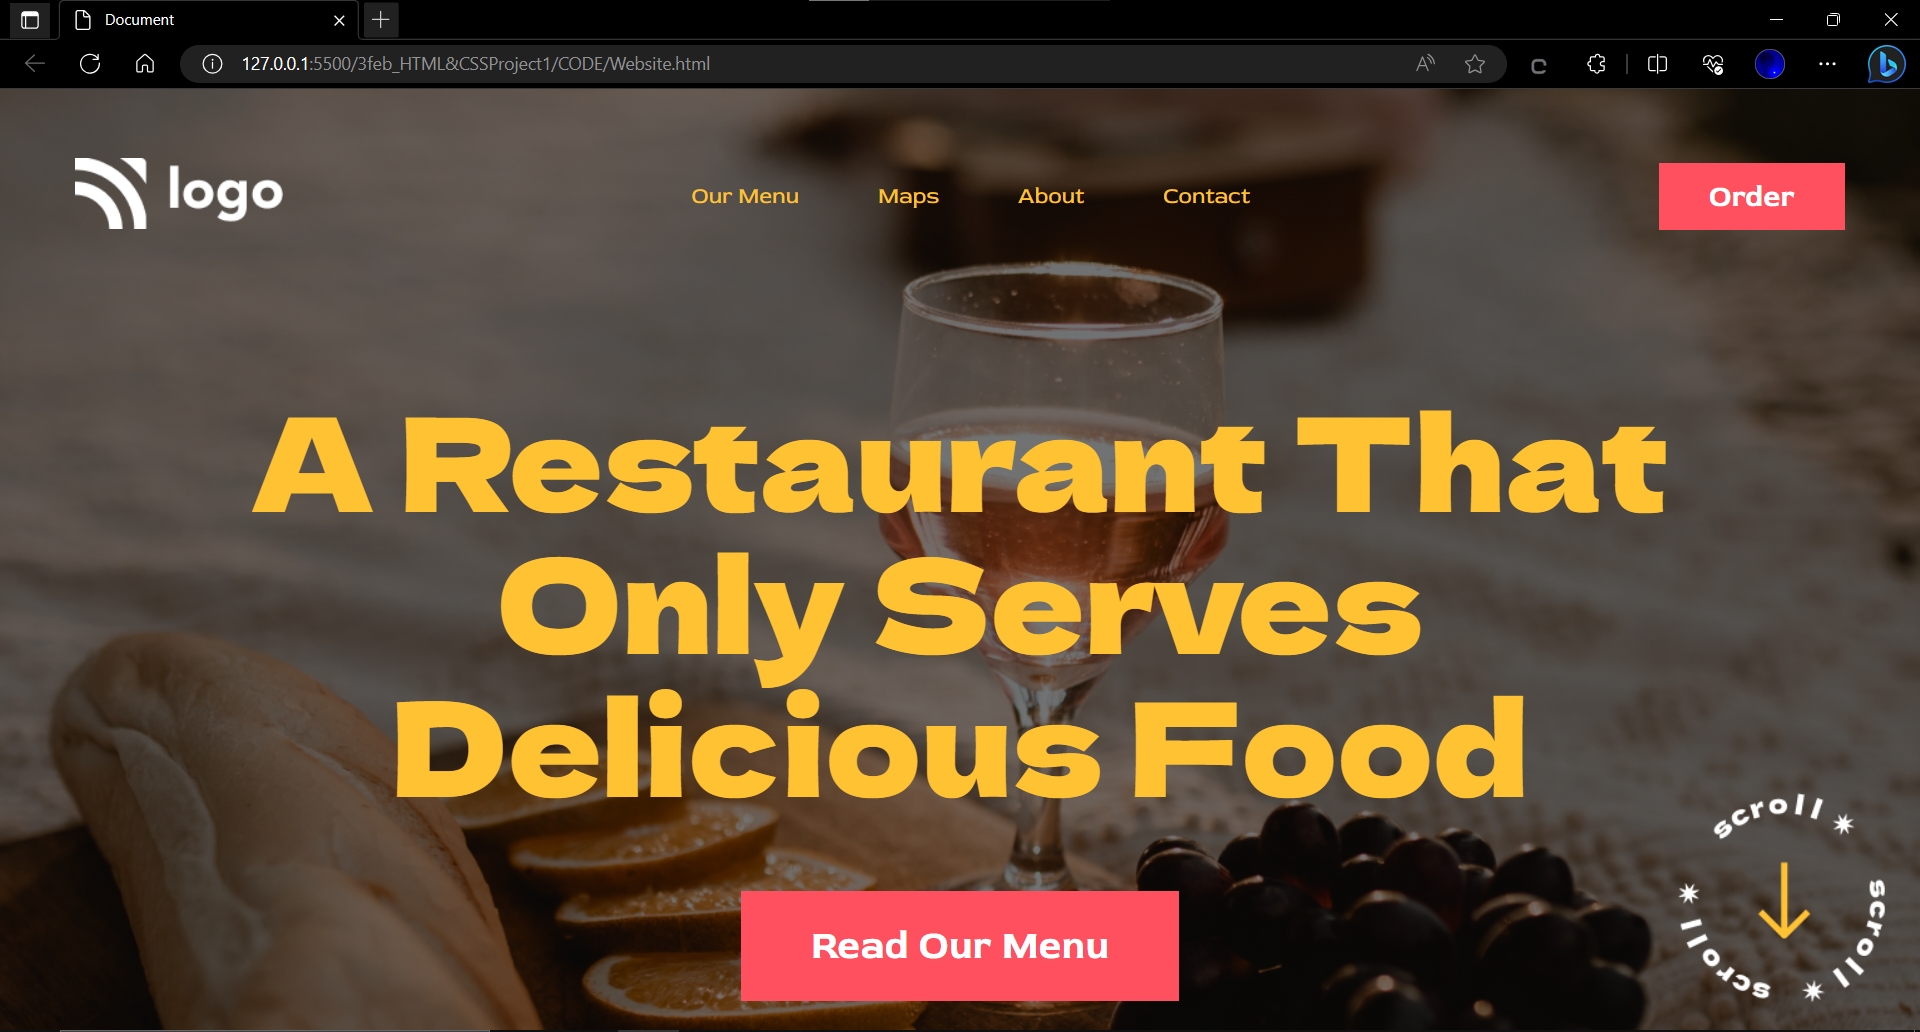
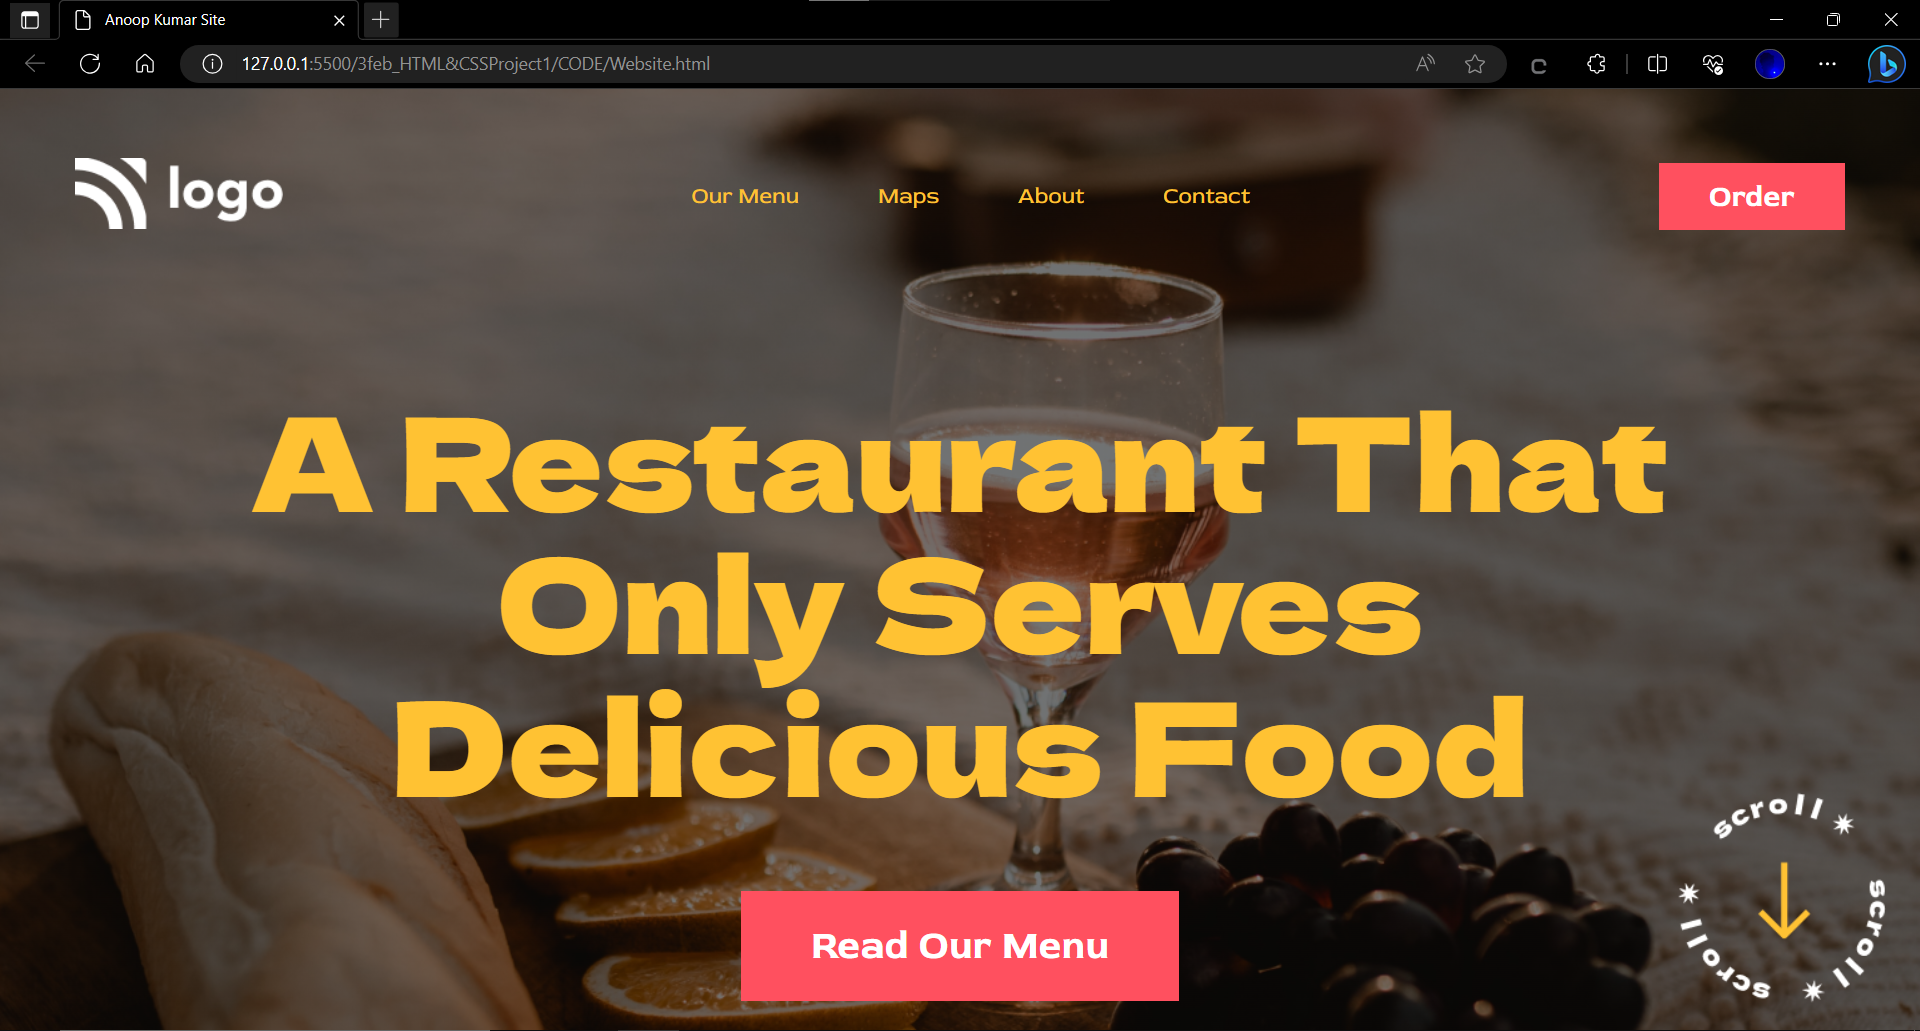
almighty push

diff --git a/4feb_HTML&CSSProject2/CODE/Html.html b/4feb_HTML&CSSProject2/CODE/Html.html
@@ -1,0 +1,58 @@
+<!DOCTYPE html>
+<html lang="en">
+  <head>
+    <meta charset="UTF-8" />
+    <meta http-equiv="X-UA-Compatible" content="IE=edge" />
+    <meta name="viewport" content="width=device-width, initial-scale=1.0" />
+    <link rel="stylesheet" href="style.css" />
+    <link rel="preconnect" href="https://fonts.googleapis.com" />
+    <link rel="preconnect" href="https://fonts.gstatic.com" crossorigin />
+    <link
+      href="https://fonts.googleapis.com/css2?family=Poppins:wght@200;300;400;500;600;700;800&display=swap"
+      rel="stylesheet"
+    />
+    <title>Anoop Kumar Site</title>
+  </head>
+  <body>
+    <div class="container">
+
+      <section aria-label="navbar">
+        <nav class="navbar">
+          <div>
+            <img src="Logo.png" alt="brand-logo" />
+          </div>
+          <div class="grow-list">
+            <ul class="list">
+              <li class="listItem">Home</li>
+              <li class="listItem">About</li>
+              <li class="listItem">Services</li>
+              <li class="listItem">Portfolio</li>
+              <li class="listItem">Pricing</li>
+            </ul>
+          </div>
+          <div class="button-group">
+            <button class="nav-button">Contact Us</button>
+          </div>
+        </nav>
+      </section>
+
+      <section aria-label="banner">
+        <div class="banner">
+          <div>
+            <h1 class="heading-text">
+              We Help You <span>Crush</span> Your Competition
+            </h1>
+            <p class="info">
+              Build trust to connect your brand to billions of users and grow
+              your revenue through SEO.
+            </p>
+            <button class="nav-button btn">See our services</button>
+          </div>
+          <div>
+            <img src="Header Illustration.png" alt="Someimg" />
+          </div>
+        </div>
+      </section>
+    </div>
+  </body>
+</html>

diff --git a/4feb_HTML&CSSProject2/CODE/style.css b/4feb_HTML&CSSProject2/CODE/style.css
@@ -1,0 +1,96 @@
+*{
+    margin: 0;
+    padding: 0;
+    box-sizing: border-box;
+    font-family: "Poppins", sans-serif;
+}
+
+.container {
+    max-width: 130rem;
+    margin: 0 auto;
+    padding: 0 119px;
+}
+
+.navbar {
+    display: flex;
+    align-items: center;
+    justify-content: space-between;
+    margin-top: 69px;
+}
+
+.grow-list {
+    flex-grow: 1;
+    padding-left: 62px;
+}
+
+.list {
+    display: flex;
+    align-items: center;
+    list-style: none;
+    gap: 36px;
+    font-family: "Poppins";
+    font-style: normal;
+    font-weight: 400;
+    font-size: 16px;
+    line-height: 24px;
+    color: #000;
+}
+
+.list li {
+    cursor: pointer;
+}
+
+.list li:hover {
+    color: #5955b3;
+}
+
+.nav-button {
+    padding: 14px 28px;
+    background-color: #5955b3;
+    border: none;
+    border-radius: 12px;
+    font-family: "Poppins";
+    font-style: normal;
+    font-weight: 500;
+    font-size: 16px;
+    line-height: 24px;
+    display: flex;
+    align-items: center;
+    text-align: center;
+    color: #ffffff;
+}
+
+.banner {
+    display: flex;
+    align-items: center;
+    justify-content: space-between;
+    margin-top: 55px;
+}
+
+.heading-text {
+    font-family: "Poppins";
+    font-style: normal;
+    font-weight: 600;
+    font-size: 64px;
+    line-height: 74px;
+    color: #3c2f60;
+}
+
+.heading-text span {
+    color: #5955b3;
+}
+
+.info {
+    font-family: "Poppins";
+    font-style: normal;
+    font-weight: 400;
+    font-size: 16px;
+    line-height: 26px;
+    letter-spacing: 0.01em;
+    color: #828282;
+    margin-top: 28px;
+}
+
+.btn {
+    margin-top: 72px;
+}

diff --git a/3feb_HTML&CSSProject1/CODE/Website.html b/3feb_HTML&CSSProject1/CODE/Website.html
@@ -17,7 +17,7 @@
       href="https://fonts.googleapis.com/css2?family=Dela+Gothic+One&display=swap"
       rel="stylesheet"
     />
-    <title>Document</title>
+    <title>Anoop Kumar Site</title>
   </head>
   <body>
     <!--Everthing in this page is within this container class div-->
